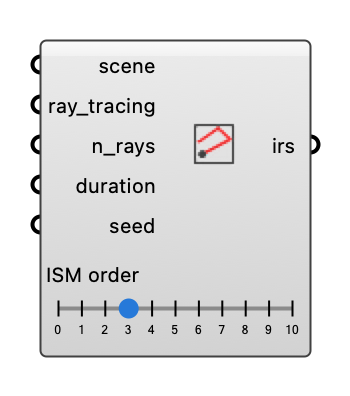
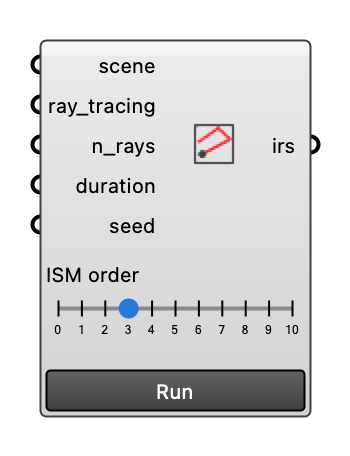
Example and images: Simulate Mono runs on Run; the capture presses Run

diff --git a/docs/_tools/capture_grasshopper.py b/docs/_tools/capture_grasshopper.py
@@ -111,6 +111,16 @@ def _running(document):
     return False
 
 
+def press_run(document):
+    """Press the Run button of every component that has one (the simulations run only on Run)."""
+    for obj in document.Objects:
+        controls = obj.GetType().GetProperty("Controls")
+        if controls is None or not any(getattr(c, "Port", None) == "run" for c in controls.GetValue(obj)):
+            continue
+        state = obj.GetType().Assembly.GetType("CompasAcoustics.Grasshopper.ControlState")
+        state.GetMethod("Press").Invoke(None, System.Array[System.Object]([obj, "run"]))
+
+
 def _preview_box(document):
     box = Rhino.Geometry.BoundingBox.Empty
     for obj in document.Objects:
@@ -166,6 +176,7 @@ class ExampleQueue:
         self.canvas.Document = self.document
         self.document.Enabled = True
         self.document.NewSolution(True)
+        press_run(self.document)
         self.idle_since = None
         log("solving {}".format(self.example.name))
 
